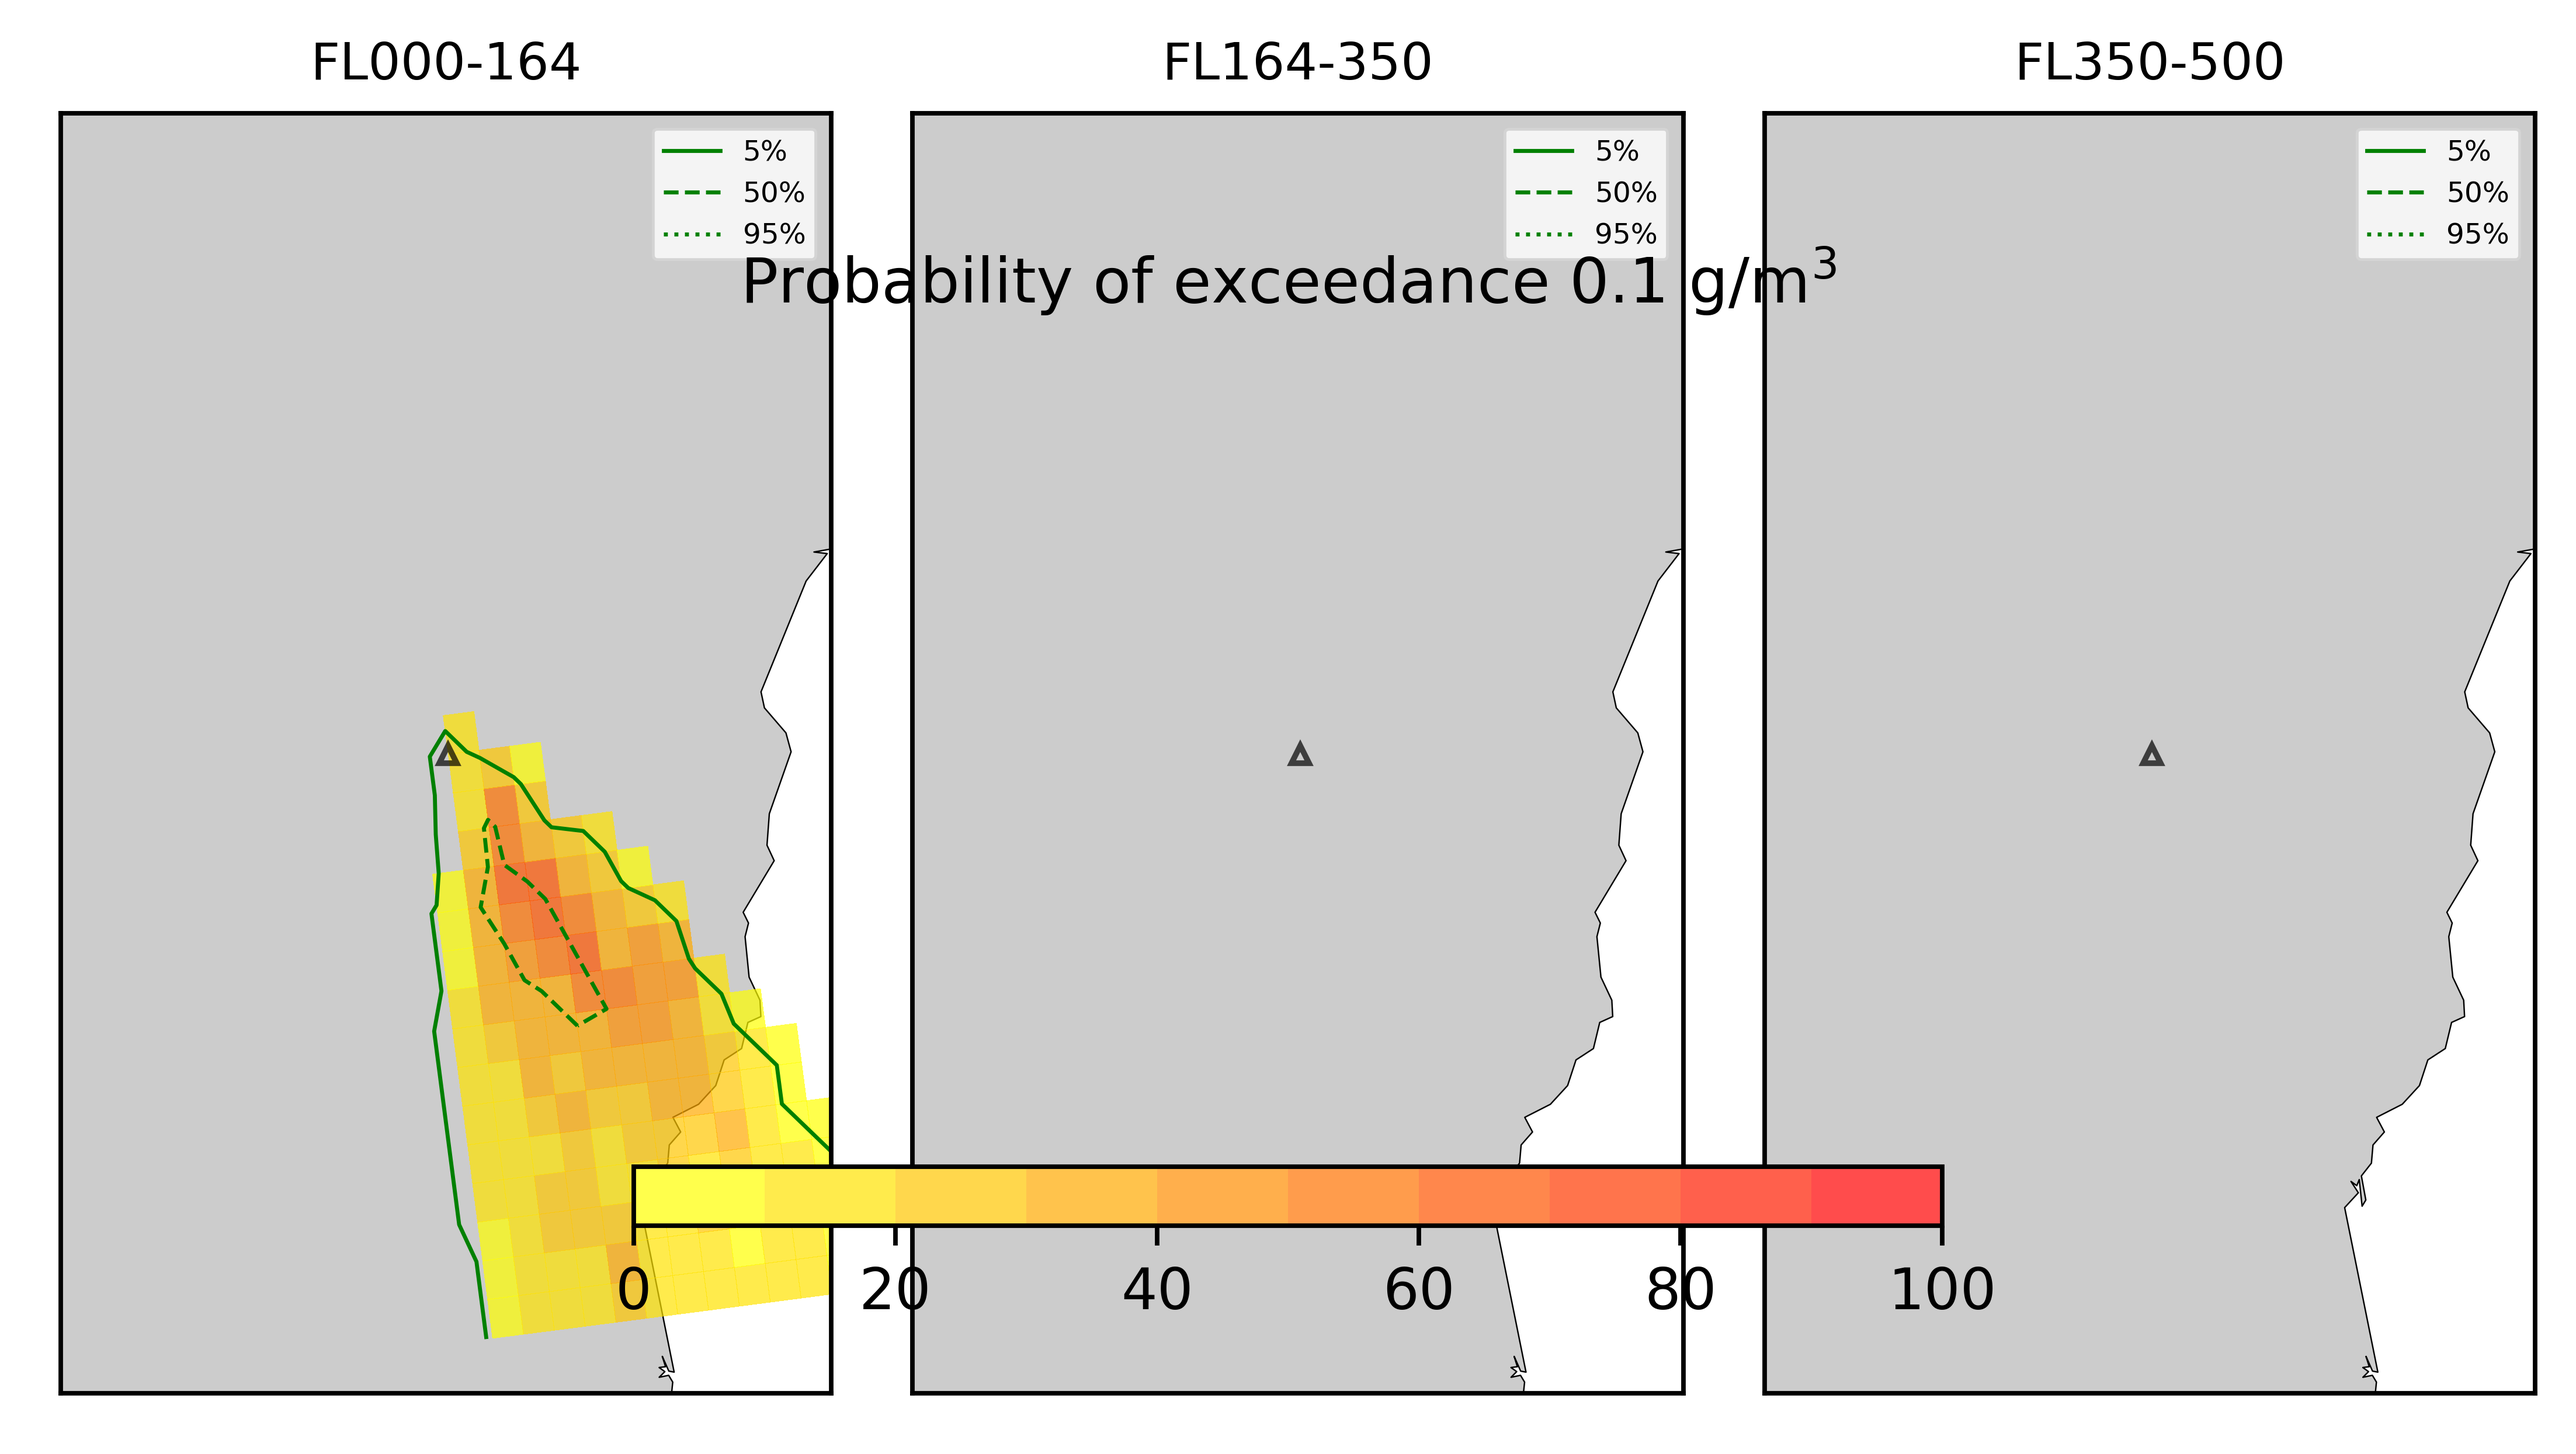
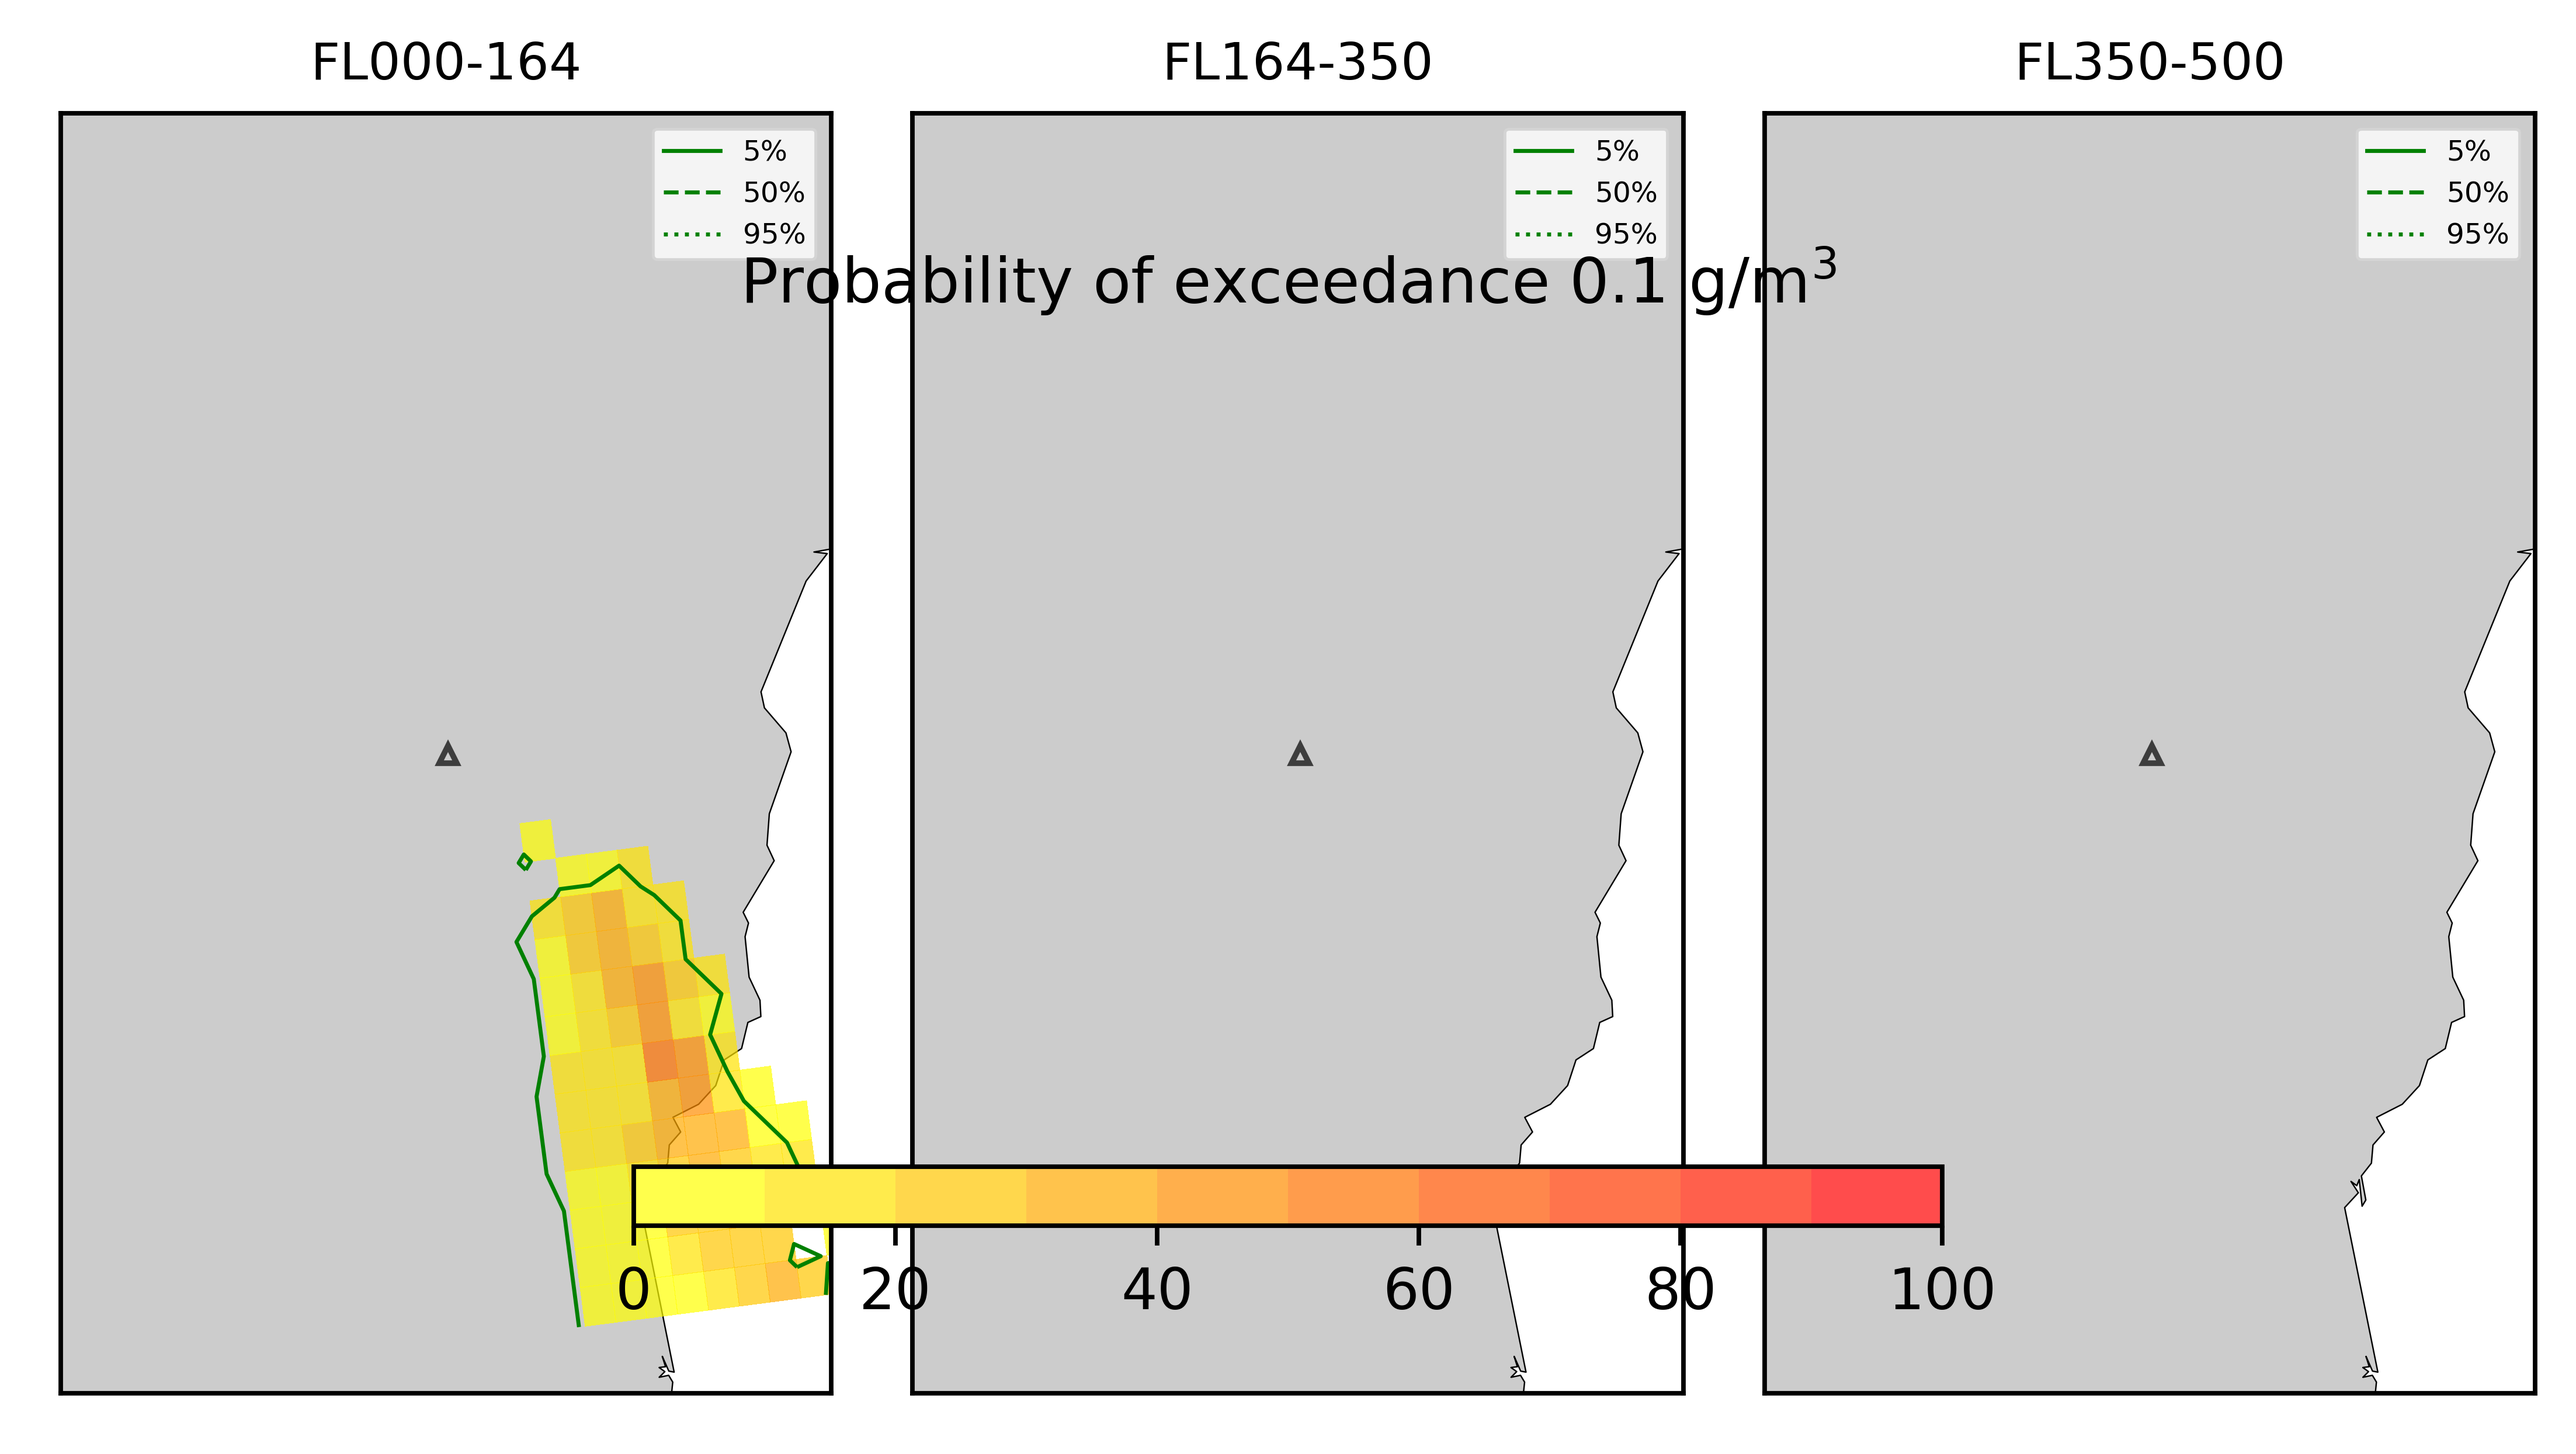
upload results

Changed region(s): [[0.1553, 0.4948, 0.3417, 0.9277], [0.2796, 0.8349, 0.3417, 0.8968], [0.2485, 0.7731, 0.2796, 0.804]]

diff --git a/FORECAST_RESULTS/20210216_1631Z/README.md b/FORECAST_RESULTS/20210216_1631Z/README.md
@@ -9,6 +9,7 @@ Contents
 	* [Forecast at 2021-02-16 19:30 Z - Ongoing Eruption](#forecast-at-2021-02-16-1930-z---ongoing-eruption)
 	* [Forecast at 2021-02-16 22:30 Z - Ongoing Eruption](#forecast-at-2021-02-16-2230-z---ongoing-eruption)
 	* [Forecast at 2021-02-17 01:30 Z - Ongoing Eruption](#forecast-at-2021-02-17-0130-z---ongoing-eruption)
+	* [Forecast at 2021-02-17 04:30 Z - Ongoing Eruption](#forecast-at-2021-02-17-0430-z---ongoing-eruption)
 
 # Forecast products
 
@@ -167,6 +168,58 @@ Contents
 
 ### Atmosphere 2021-02-17 01:30 Z
   
-![](./figures/probability_air_2021_02_17_0130_scenario_2_conclev_1_3.png)  
+![](./figures/probability_air_2021_02_17_0130_scenario_2_conclev_1_3.png)
+## Forecast at 2021-02-17 04:30 Z - Ongoing Eruption
+  
+
+|Eruption start [Z]|Eruption end [Z]|Forecast time [Z]|Column height asl [m]|
+| :--- | :--- | :--- | :--- |
+|2021-02-16 16:30:00|Ongoing|2021-02-17 04:30:00|6000 ± 500 - from VONA|
+  
+  
+
+|Percentile|MER [kg/s¹]|Mass air [kg]|Mass air nested dom. [kg]|Mass grd [kg]|Mass grd nested dom. [kg]|
+| :--- | :--- | :--- | :--- | :--- | :--- |
+|5th|2.10e+04|2.27e+08|9.39e+07|7.86e+08|5.68e+08|
+|50th|5.27e+04|6.19e+08|2.11e+08|1.25e+09|8.25e+08|
+|95th|1.86e+05|1.02e+09|3.50e+08|2.72e+09|3.50e+08|
+  
+
+### Ground Nested Domain 2021-02-17 04:30 Z
+  
+![](./figures/probability_grd_2021_02_17_0430_scenario_1_4.png)  
+  
+  
+  
+  
+  
+  
+  
+  
+  
+  
+  
+  
+
+|Location|Ground load [kg/m²] 5th perc|Ground load [kg/m²] 50th perc|Ground load [kg/m²] 95th perc|
+| :--- | :--- | :--- | :--- |
+|Schiena Asino (1)|4.12e-01|2.82e+00|1.30e+01|
+|Rif.Vescovo (2)|2.82e-01|3.82e+00|1.52e+01|
+|Serra Pituzza (3)|6.54e-01|4.38e+00|1.94e+01|
+|Monterosso (4)|6.16e-02|1.33e+00|3.18e+00|
+|Cim.Pedara (5)|5.57e-01|4.49e+00|9.38e+00|
+|Cim.Viagrande (6)|2.73e-01|1.27e+00|3.51e+00|
+|Cim.Mascalucia (7)|1.34e+00|3.11e+00|8.05e+00|
+|Cim.Tremestieri (8)|6.71e-01|3.49e+00|6.27e+00|
+|Cim.S.Giov.La Punta (9)|3.39e-01|1.97e+00|5.47e+00|
+|Cim.Gravina (10)|1.28e+00|3.09e+00|7.86e+00|
+|ENI S.Giov.Galermo (11)|6.82e-01|2.15e+00|6.08e+00|
+|Bio Piazza Europa (12)|4.11e-01|1.36e+00|3.54e+00|
+|INGV-OE (13)|3.61e-01|1.22e+00|4.41e+00|
+  
+
+### Atmosphere 2021-02-17 04:30 Z
+  
+![](./figures/probability_air_2021_02_17_0430_scenario_2_conclev_1_4.png)  
 Go to [Supplementary page](Supplementary_page.md)  
 Go to [Main directory](https://github.com/federicapardini/Real_time_ash_forecast)
